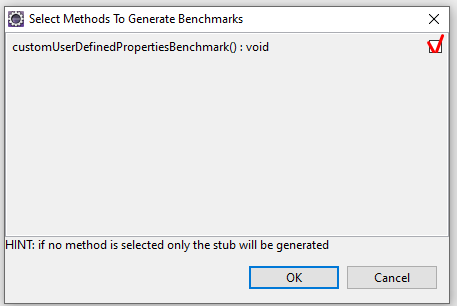
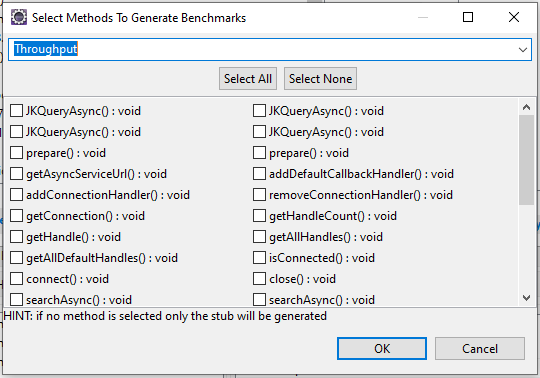
Documentation update

Changed region(s): [[0.0, 0.0, 1.0, 1.0], [0.4902, 0.5, 0.8578, 0.5294], [0.4595, 0.5294, 0.7352, 0.5882]]

diff --git a/README.md b/README.md
@@ -9,13 +9,15 @@
 
 **Prerequisites**
 
-* Package `CybenchTools.zip` is built and tested using (on lower JAVA or Eclipse version it won’t work)
-    * JAVA – JDK-14.0.2,
+* Package `CybenchTools.zip` is built and tested using
+    * JAVA – JDK-11.0.9,
     * Eclipse Version: 2020-09 (4.17.0).
     
 * Package `CyBenchToolsForEclipseMars.zip` is built and tested using
     * JAVA – JDK-1.8.0_201,
     * Eclipse Version: Eclipse Mars 2 (4.5.2).
+    
+**Note:** on lower JAVA or Eclipse versions the plugin will not work.
 
 ### Installation from local file system
 
@@ -30,11 +32,11 @@ Installation process for both version of plugins is the same:
 ![](./docs/images/image1.png)
 
 * Click button "Add".
-* In installation dialog window deselect check box “Group items by category”, then list of features shall appear in the table.
+* Then list of categories/features shall appear in the table.
 
 ![](./docs/images/image2.png)
 
-* Check “CyBench” entry in the features table.
+* Check “CyBench” entry in the table.
 * Click button “Next”.
 * Installation details window appears. Click button “Next”.
 * Licenses review window appears, review and select “I accept the terms of the license agreement”, click button “Finish”.
@@ -52,22 +54,6 @@ Installation process for both version of plugins is the same:
 ![](./docs/images/image5.png)
 
 ![](./docs/images/image6.png)
-
-
-## Uninstall
-
-* Applicable if CyBench tools were used in developer mode:
-    * Stop the Eclipse.
-    * Navigate to drop ins directory of the Eclipse IDE (for example: `c:\eclipses\eclipse-2020-09-R\dropins\`).
-    * Delete files which contains word `cybench` in their file name.
-    * Start Eclipse again.
-* Applicable if CyBench tools were installed using update site package:
-    * Select Eclipse menu Help→ About Eclipse IDE → Click Installation Details.
-    * In the `Installed Software` tab select table item which has name `CyBench` 
-    * Click button `Uninstall`.
-    * Restart Eclipse when requested.
-
-![](./docs/images/image7.png)
 
 ## Usage Instructions
 
@@ -104,29 +90,6 @@ This configuration triggers, any JMH benchmarks implementing class recompile and
 
 Configuration allows to run CyBench launcher without any other specific rebuild and this does not depend on project nature. Also this allows to use JMH framework in Eclipse for generic Eclipse JAVA project without Maven usage.
 
-## CyBench Explorer View
-
-View displays all CyBench reports found in the workspace projects.
-* To open this view navigate “Window”→”Show View” → “Other” → “CyBench Tools” → “CyBench Explorer”. If Java perspective is active then it opens on the right side of the screen otherwise opens at the bottom, and can place it anywhere.
-
-![](./docs/images/image12.png)
-
-* Double click with mouse on the report entry and it will open a view with report details.
-
-![](./docs/images/image13.png)
-
-## Report Details View
-
-View displays selected or generated during launch report details.
-* Displays a list of benchmark tests on the right.    
-* View open position is at the bottom of the screen, either when report is selected via “CyBench Explorer” or after launch benchmarks using “CyBench launcher”
-
-![](./docs/images/image14.png)
-
-* Double click mouse on “Available Benchmarks” entries on the left size of the view and it will display selected benchmark details in the right sideof the view, tab “Benchmark Details”.
-* Also can navigate thorough other report attributes by clicking on the appropriate “tab” - “Summary”, “JVM Properties”, “HW Properties”.
-* Chrome icon at the top-right view side allows to open the report using default system Web browser (which is defined in Eclipse settings) i.e. navigate to CyBench website to particular report details page (if the report was sent to CyBench Repository).
-
 ## Generate Benchmarks
 
 Feature generates benchmark class stubs, adds necessary annotations and methods for a selected JAVA file.
@@ -144,7 +107,10 @@ Feature generates benchmark class stubs, adds necessary annotations and methods 
 
 ![](./docs/images/image15.png)
 
-* A popup will be displayed that shows all the available public methods inside the class. Check the checkboxes on the right side to select the methods for which to generate the benchmark methods.
+* A popup will be displayed that shows all the available public methods inside the class. 
+* Check the checkboxes on the right side to select the methods for which to generate the benchmark methods.
+* Select the benchmarking mode from the dropdown list.
+
 **Notice**: If the file have been already generated previously and still exists its contents will not be overwritten. 
 
 ![](./docs/images/image19.png)
@@ -166,7 +132,7 @@ Launches all JMH benchmarks which are found under selected JAVA file. Quick laun
 
 **Steps:**
 
-* Right click on the JAVA file or project which contains JMH Benchmarks.
+* Right click on the JAVA file or project (quick launch projects does not work in java perspective) which contains JMH Benchmarks.
 * Select “Run As”→ “Run on CyBench”. 
 
 ![](./docs/images/image17.png)
@@ -200,7 +166,49 @@ Launch configuration view which allows to create a custom launch settings for a 
     * report is displayed under “Report Details View”, 
     * report entry appears in “CyBench Explorer”.
 
+
+## CyBench Explorer View
+
+View displays all CyBench reports found in the workspace projects.
+* To open this view navigate “Window”→”Show View” → “Other” → “CyBench Tools” → “CyBench Explorer”. If Java perspective is active then it opens on the right side of the screen otherwise opens at the bottom, and can place it anywhere.
+
+![](./docs/images/image12.png)
+
+* Double click with mouse on the report entry and it will open a view with report details.
+
+![](./docs/images/image13.png)
+
+## Report Details View
+
+View displays selected or generated during launch report details.
+* Displays a list of benchmark tests on the right.    
+* View open position is at the bottom of the screen, either when report is selected via “CyBench Explorer” or after launch benchmarks using “CyBench launcher”
+
+![](./docs/images/image14.png)
+
+* Double click mouse on “Available Benchmarks” entries on the left size of the view and it will display selected benchmark details in the right sideof the view, tab “Benchmark Details”.
+* Also can navigate thorough other report attributes by clicking on the appropriate “tab” - “Summary”, “JVM Properties”, “HW Properties”.
+* Chrome icon at the top-right view side allows to open the report using default system Web browser (which is defined in Eclipse settings) i.e. navigate to CyBench website to particular report details page (if the report was sent to CyBench Repository).
+
 ## Logging
 
 Plugin logs message to Eclipse default log file which is located in `<Path to workspace>\.metadata\.plugins\org.eclipse.ui.workbench\log` or `<Path to workspace>\.metadata\.log`.
 Log messages are also displayed in `Error Log` view, which is accessible via `Menu bar → Window → Show View → Error Log`   
+
+## Uninstall
+
+* Applicable if CyBench tools were installed using update site package:
+    * Select Eclipse menu Help→ About Eclipse IDE → Click Installation Details.
+    * In the `Installed Software` tab select table item which has name `CyBench` 
+    * Click button `Uninstall`.
+    * Restart Eclipse when requested.
+
+![](./docs/images/image7.png)
+
+
+## More information on benchmarking your code
+* [CyBench Benchmark samples](https://github.com/K2NIO/gocypher-cybench-java-core/tree/main/gocypher-cybench-jvm/src/main/java/com/gocypher/cybench/jmh/jvm/client/tests)
+* [Avoiding Benchmarking Pitfalls on the JVM](https://www.oracle.com/technical-resources/articles/java/architect-benchmarking.html#:~:text=JMH%20is%20a%20Java%20harness,to%20unwanted%20virtual%20machine%20optimizations)
+* [JMH - Java Microbenchmark Harness](http://tutorials.jenkov.com/java-performance/jmh.html)
+* [Java Benchmarks with JMH](https://medium.com/swlh/java-benchmarks-with-jmh-a-preamble-285510a77dd2)
+* [Microbenchmarking with Java](https://www.baeldung.com/java-microbenchmark-harness)
